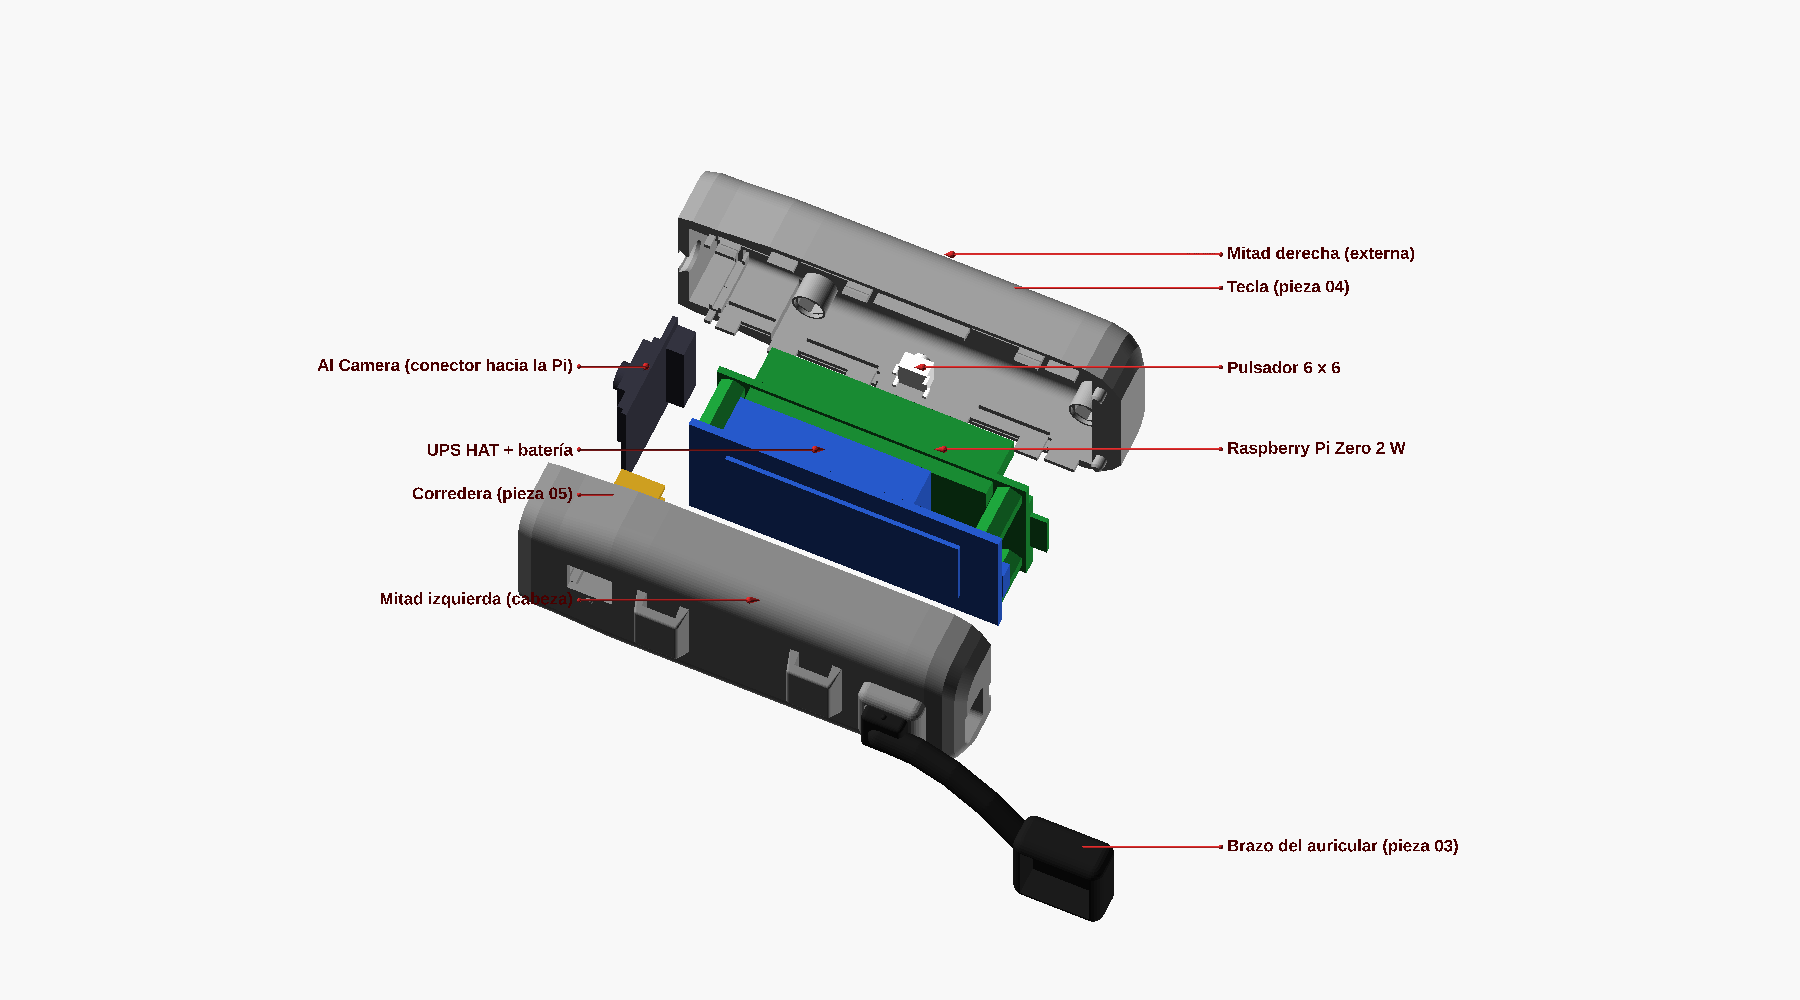
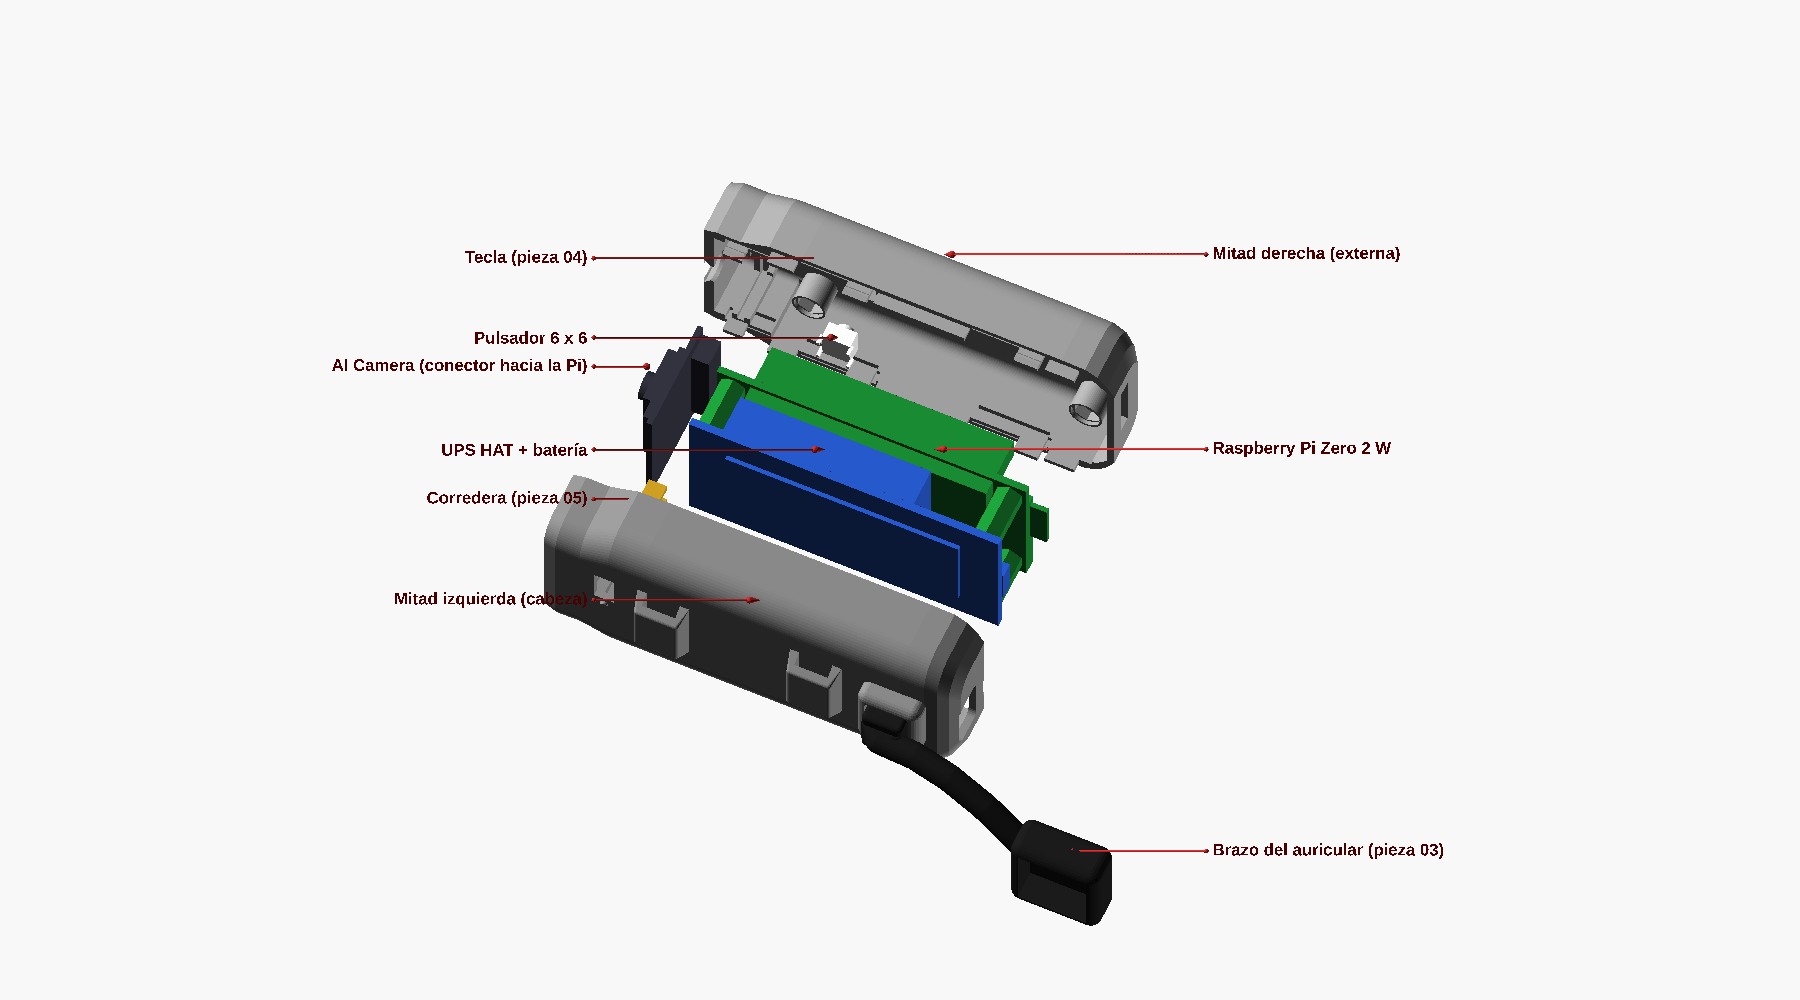
fix(hardware): case v0.11 from the v0.10 print — switch-sized window, printable camera slot, button off the heatsink
What the v0.10 print showed: the power-switch window was too long (now 4.2 x 7.4,
over the lever); the camera ribs were too fine to print (now 1.2 ribs with 0.3
clearance, no crush ribs); the mode button sat over the Pi's 14x14x5 heatsink (it
moves to x -14, and the heatsink is in the model and the checks); the microSD space
was mirrored (fixed, and it now opens at the rear end); the bone arm's tube started
inside its socket boss and its detent bumps jammed (moved out, bumps removed, more
clearance). The camera moves closer to the Pi: the nose is 5.3 mm shorter and 2 mm
lower, and the rear end is hollowed to a 1.6 shell. The rear pins go with it.

diff --git a/hardware/case-via-clara/README.md b/hardware/case-via-clara/README.md
@@ -1,19 +1,31 @@
-# Carcasa VIA Clara v0.10 — dos mitades con cierre a presión
+# Carcasa VIA Clara v0.11 — dos mitades con cierre a presión
 
-Modelo paramétrico en **OpenSCAD** (`via_clara_v0_10.scad`) para la Raspberry Pi Zero 2 W con el header
+Modelo paramétrico en **OpenSCAD** (`via_clara_v0_11.scad`) para la Raspberry Pi Zero 2 W con el header
 soldado, la Waveshare UPS HAT (C) unida a su batería 803040, la Raspberry Pi AI Camera y el auricular
-de conducción ósea, montado sobre la patilla de los lentes. Es la v0.9 corregida con lo que mostró su
-primera impresión (2026-10-17). La v0.8 (`via_clara_v0_8.scad`) se conserva como referencia.
+de conducción ósea, montado sobre la patilla de los lentes. Es la tercera versión impresa: corrige lo que
+mostraron las impresiones de la v0.9 (2026-10-17) y de la v0.10 (2026-10-21). La v0.8 (`via_clara_v0_8.scad`) se conserva como referencia.
 Para regenerar todo, correr `./export.sh`: arma los STL, las imágenes y las verificaciones, y sale con
 error si algo falla.
 
 ![Explotada, con las placas y la cámara](img/exploded_with_hardware.png)
 
-**Medidas exteriores: 92,9 × 28,7 × 36,6 mm** (largo × ancho × alto) del cuerpo. La v0.9 medía
-91,9 × 31,4 × 37,6. Con los puentes del elástico y el zócalo del brazo, que sobresalen 3,8 de la cara
-cabeza, el ancho total es 32,5. Las medidas no cuentan el brazo del auricular.
+**Medidas exteriores: 86,2 × 28,7 × 36,6 mm** (largo × ancho × alto) del cuerpo; la nariz baja a 31,6
+de alto. La v0.10 medía 92,9 × 28,7 × 36,6, y la v0.9, 91,9 × 31,4 × 37,6. Con los puentes del elástico
+y el zócalo del brazo, que sobresalen 3,8 de la cara cabeza, el ancho total es 32,5. Las medidas no
+cuentan el brazo del auricular.
 
-## Qué cambió después de imprimir la v0.9
+## Qué cambió después de imprimir la v0.10
+
+| Lo que pasó en la impresión | v0.11 |
+|---|---|
+| La ventana de la llave de encendido era demasiado larga | La ventana tiene **el tamaño de la llave**: 4,2 × 7,4 mm, justo frente a la palanca (la parte que asoma de la palanca mide 3,9 y recorre 3,3). La perilla de la corredera (pieza 05) mide 3,8 × 3. La corredera sigue haciendo falta: la palanca queda ~7 mm hacia adentro de la cara |
+| Las guías de la cámara eran tan finas que la impresora no las podía reproducir | Nervios de **1,2 mm** (tres líneas de extrusión), 1,0 sobre el borde del PCB y 0,3 de luz. Sin nervios de aplastamiento |
+| El botón chocaba con el disipador de la Raspberry | El botón pasó a **x −14**, adelante, lejos del chip del medio. El disipador (14 × 14 × 5) está en el modelo y en las verificaciones |
+| La ranura de la microSD estaba en espejo | Se pasó al lado correcto, y ahora **se abre por el extremo trasero**: la tarjeta entra y sale con la carcasa cerrada |
+| El brazo del auricular no entraba: su tubo chocaba con el zócalo | El tubo arranca 0,4 mm afuera del zócalo, la ficha tiene 0,35 de luz por lado y no tiene los topes que trababan |
+| Seguía siendo grande y con mucho relleno en los extremos | La cámara se acercó a la Pi y la nariz quedó **5,3 mm más corta** y 2 mm más baja (y el extremo trasero, 1,4 más corto). El extremo trasero, que era casi macizo, ahora es una cáscara de 1,6. Sin los pernos traseros: alinean los labios |
+
+## Lo que cambió en la v0.10
 
 | Lo que pasó en la impresión | v0.10 |
 |---|---|
@@ -27,7 +39,7 @@ cabeza, el ancho total es 32,5. Las medidas no cuentan el brazo del auricular.
 Además, como el flex ya no apoya en el piso de la nariz:
 
 - la traba delantera **vuelve a tener par abajo**: son 6 trabas;
-- la corredera ocupa todo el lugar detrás de la cámara y su perilla pasa de 4,4 a **9,1 mm de ancho**, mucho más fácil de encontrar al tacto.
+- la corredera ocupa todo el lugar detrás de la cámara y su perilla pasó de 4,4 a 9,1 mm de ancho (en la v0.11 se achicó otra vez, al tamaño de la llave).
 
 ## Antes de imprimir: medir con calibre
 
@@ -36,9 +48,10 @@ va primero:
 
 | Parámetro | Qué medir | Valor | Si está mal |
 |---|---|---|---|
+| `HEATSINK`, `HEATSINK_C` | el disipador de la Pi: tamaño y alto, y dónde está su centro | 14 × 14 × 5, a 25 del extremo de la microSD | el botón vuelve a chocar con él |
 | `HEX_H`, `HEX_AF` | los separadores hexagonales que asoman **sobre la Pi**: cuánto sobresalen de la cara de la Pi, y entre caras | 6,0 / 5,0 | no entran en la almohadilla o quedan flojos; si sobresalen más que el header (8,5), la carcasa se ensancha sola |
 | `SCREW_HEAD_H`, `SCREW_HEAD_D` | las cabezas de los tornillos bajo la HAT | 1,8 / 4,5 | tocan la pared del lado de la cabeza |
-| `SD_CARD_OUT` | cuánto sobresale la microSD del borde de la Pi (o cuánto se cortó con la Dremel) | 3,5 | la tarjeta vuelve a chocar atrás |
+| `SD_CARD_OUT`, `SD_ZC` | cuánto sobresale la microSD del borde de la Pi, y dónde está su centro | 3,5 / 1,9 | la ranura trasera no queda frente a la tarjeta |
 | `AI_CAM_HOLDER` | el soporte cuadrado del lente: lado, y cuánto sobresale de la cara del PCB | 12,0 / 4,6 | la cámara no llega a su ranura |
 | `BOARD_GAP` | de la cara superior de la HAT a la cara inferior de la Pi | 11,3 | en la v0.9 entró bien |
 | `LEVER_Y`, `LEVER_TRAVEL`, `SW_BODY_H` | altura de la palanca sobre la HAT, su recorrido y el alto de la carcasa de la llave | 2–5 / 3,3 / 7 | la horquilla no agarra la palanca o no la lleva hasta el final |
@@ -61,7 +74,7 @@ subcarpeta por versión. El repo guarda lo que los genera (`.scad` y `export.sh`
 ## Guía con flechas
 
 `img/guide/` tiene cinco vistas con flechas que dicen para qué es cada ranura, agujero y pieza. Las
-genera `export.sh` a partir de `via_clara_v0_10_guide.scad`:
+genera `export.sh` a partir de `via_clara_v0_11_guide.scad`:
 
 | Vista | Qué muestra |
 |---|---|
@@ -105,14 +118,14 @@ menores, la carcasa se achica sola.
 
 | Especificación | v0.10 |
 |---|---|
-| Sin tornillos, cierre por click | **6 trabas a presión**, 3 arriba y 3 abajo. Cada una es una **viga** de 6 a 10 mm que corre a lo largo de la junta, dentro de la pared de la mitad derecha. En la punta lleva un **gancho** que cruza la junta y cae en una ranura de la mitad izquierda: para abrir o cerrar, la viga flexiona ~0,35 mm, dentro del plano de la cama. Cada viga se imprime atada por un **puente en la ranura de su extremo, que hay que cortar después de imprimir**. Además hay un labio de alineación en el resto de la junta, 2 pernos atrás y una ranura para abrir con la uña |
-| Sin tapa de cámara | la cámara queda **dentro de las dos mitades**: el PCB entra en una **ranura** con nervios adelante y atrás, 0,15 de luz en los bordes y cuatro nervios de aplastamiento arriba y abajo. **Una sola abertura frontal**, centrada en el lente |
+| Sin tornillos, cierre por click | **6 trabas a presión**, 3 arriba y 3 abajo. Cada una es una **viga** de 6 a 10 mm que corre a lo largo de la junta, dentro de la pared de la mitad derecha. En la punta lleva un **gancho** que cruza la junta y cae en una ranura de la mitad izquierda: para abrir o cerrar, la viga flexiona ~0,35 mm, dentro del plano de la cama. Cada viga se imprime atada por un **puente en la ranura de su extremo, que hay que cortar después de imprimir**. Además hay un labio de alineación en el resto de la junta y una ranura atrás para abrir con la uña |
+| Sin tapa de cámara | la cámara queda **dentro de las dos mitades**: el PCB entra en una **ranura** con nervios de 1,2 adelante y atrás, que cubren 1,0 del borde, con 0,3 de luz. **Una sola abertura frontal**, centrada en el lente |
 | Flex de la cámara | sale del conector por el costado de la cámara que mira a la Pi, corre pegado a la pared externa y baja al CSI. Ese recorrido está reservado (verificación `flex`) |
 | Sin pines a través de la Raspberry | **4 almohadillas en la mitad derecha** reciben los separadores hexagonales que asoman sobre la Pi, y un **collar de plástico** se refunde sobre cada uno con el soldador. El collar queda a 3,4 mm de la Pi |
-| Interruptor accesible | **corredera impresa** (pieza 05): una perilla de **9,1 × 4 mm**, 1,5 en relieve, con tres estrías y un **punto en relieve que marca el lado ON**. Asoma por una ventana adelante en la cara cabeza, y una horquilla toma la palanca de la llave de punta a punta: ON abajo, OFF arriba |
+| Interruptor accesible | **corredera impresa** (pieza 05): una perilla de **3,8 × 3 mm** en una ventana del tamaño de la llave, 1,5 en relieve, con tres estrías y un **punto en relieve que marca el lado ON**. Asoma por una ventana adelante en la cara cabeza, y una horquilla toma la palanca de la llave de punta a punta: ON abajo, OFF arriba |
 | Carga | canal en la pared trasera a la altura del micro USB de la HAT, para la ficha moldeada |
-| microSD | **queda adentro**: es sólo para el equipo, y para sacarla se abre la carcasa. Atrás tiene lugar de sobra |
-| Un solo botón | **botón de modos** en la cara externa, con un **anillo en bajorrelieve** para encontrarlo al tacto. La tecla y el pulsador de 6 × 6 de 4 patas entran derecho desde adentro en su bolsillo (verificaciones `cap_insert` y `switch_insert`); una gota de pegamento caliente fija el pulsador |
+| microSD | **entra y sale por una ranura en el extremo trasero**, con la carcasa cerrada |
+| Un solo botón | **botón de modos** en la cara externa, adelante (x −14), lejos del disipador, con un **anillo en bajorrelieve** para encontrarlo al tacto. La tecla y el pulsador de 6 × 6 de 4 patas entran derecho desde adentro en su bolsillo (verificaciones `cap_insert` y `switch_insert`); una gota de pegamento caliente fija el pulsador |
 | Auricular óseo, 14 mm | 14 nominales + 0,2 de holgura por lado. El brazo es pieza aparte y sigue a la cara cabeza |
 | Canal para el elástico | **dos puentes** en la cara cabeza, para un elástico plano de 6 mm |
 
@@ -138,9 +151,9 @@ Ahora el conjunto va en la **mitad derecha** (la externa). Hay que poner primero
    cabeza, con la horquilla hacia adentro. Dejarla **arriba del todo (OFF)**, y la llave de la HAT
    también en **OFF**.
 6. **Auricular.** Pasar el cable por el puerto de la mitad izquierda y el canal del brazo, y enchufar
-   el brazo en su zócalo.
+   el brazo en su zócalo. Si queda flojo, una gota de pegamento.
 7. **Cerrar.** Bajar la mitad izquierda sobre la derecha. La palanca de la llave entra en la horquilla
-   de la corredera (verificación `lever_insert`) y los pernos traseros guían. Apretar hasta escuchar las
+   de la corredera (verificación `lever_insert`) y los labios guían. Apretar hasta escuchar las
    seis trabas. Para abrir: uña o moneda en la ranura trasera.
 
 ## Impresión
@@ -150,19 +163,19 @@ PETG si es posible (aguanta mejor las aperturas repetidas); PLA también sirve. 
 
 | STL | Orientación | Soportes |
 |---|---|---|
-| `01_left_half_v0_10.stl` | cara cabeza abajo; apoya en las caras planas del zócalo del brazo y de los dos puentes del elástico | sí, bajo la cara cabeza; bloquearlos dentro de la cavidad |
-| `02_right_half_v0_10.stl` | cara externa abajo, plana; las trabas y las almohadillas crecen hacia arriba | sólo bajo el ahusado trasero y la punta de la nariz. Después de imprimir, **cortar los 6 puentes** de las vigas de las trabas, contra la punta de cada viga |
-| `03_bone_arm_v0_10.stl` | acostado | de árbol |
-| `04_mode_button_v0_10.stl` | parado sobre la brida | no |
-| `05_power_slider_v0_10.stl` | acostado sobre su cara lateral plana | no |
-| `00_assembly_check_v0_10.stl` | — | **no se imprime**: el conjunto cerrado, para revisar en el laminador |
+| `01_left_half_v0_11.stl` | cara cabeza abajo; apoya en las caras planas del zócalo del brazo y de los dos puentes del elástico | sí, bajo la cara cabeza; bloquearlos dentro de la cavidad |
+| `02_right_half_v0_11.stl` | cara externa abajo, plana; las trabas y las almohadillas crecen hacia arriba | sólo bajo el ahusado trasero y la punta de la nariz. Después de imprimir, **cortar los 6 puentes** de las vigas de las trabas, contra la punta de cada viga |
+| `03_bone_arm_v0_11.stl` | acostado | de árbol |
+| `04_mode_button_v0_11.stl` | parado sobre la brida | no |
+| `05_power_slider_v0_11.stl` | acostado sobre su cara lateral plana | no |
+| `00_assembly_check_v0_11.stl` | — | **no se imprime**: el conjunto cerrado, para revisar en el laminador |
 
 ## Archivos y verificaciones
 
 ```
-via_clara_v0_10.scad         el modelo. PART = assembly | left | right | bone | button | slider |
+via_clara_v0_11.scad         el modelo. PART = assembly | left | right | bone | button | slider |
                              print_* | hardware | check_*;  SHOW_HW y EXPLODE para la vista armada
-via_clara_v0_10_guide.scad   la guía con flechas (img/guide/); no se imprime
+via_clara_v0_11_guide.scad   la guía con flechas (img/guide/); no se imprime
 via_clara_v0_8.scad          la versión de partida, sin tocar, como referencia
 export.sh                    regenera stl/ e img/ y corre las verificaciones
 ```

diff --git a/docs/SESSION-LOG.md b/docs/SESSION-LOG.md
@@ -3949,3 +3949,26 @@ sobresale la microSD y el soporte del lente, y con eso imprimir primero la nariz
 carpeta `modelo_3d` del Drive de ViroVision: quedó pendiente porque el Chrome conectado no tenía esa
 cuenta.
 
+## 2026-10-21 — Carcasa v0.11: lo que mostró la impresión de la v0.10
+
+La v0.10 impresa salió mal ("espantoso"). Lo que falló y cómo quedó en `via_clara_v0_11.scad`:
+
+- **Ventana de la llave demasiado larga.** El usuario quería que calzara justo con el switch: ahora mide
+  4,2 × 7,4, frente a la palanca, y la perilla de la corredera 3,8 × 3.
+- **Las guías de la cámara no se podían imprimir** (nervios de 0,65 y de aplastamiento de 0,6, aun con
+  la calidad al máximo). Ahora son nervios de 1,2 con 0,3 de luz, sin nervios de aplastamiento.
+- **El botón chocaba con el disipador** de la Pi (14 × 14 × 5, el usuario lo quiere mantener). El botón
+  pasó a x −14, y el disipador entró al modelo y a las verificaciones.
+- **La microSD estaba en espejo** (el slot no está centrado en el borde de la Pi). Se corrigió de lado, y
+  el espacio ahora se abre por el extremo trasero para sacar y poner la tarjeta.
+- **El brazo del auricular no entraba**: su tubo arrancaba 0,6 adentro del zócalo y los topes de la
+  ficha trababan. Se corrió el tubo, se sacaron los topes y la ficha tiene 0,35 de luz por lado.
+- **Seguía grande y con relleno en los extremos.** La nariz quedó 5,3 mm más corta (la cámara se acercó
+  a la Pi, con 3,2 mm para que el flex baje al CSI) y 2 mm más baja; el extremo trasero es una cáscara de
+  1,6. El cuerpo quedó en 86,2 × 28,7 × 36,6.
+- Error mío del proceso: mandé a imprimir la v0.10 con medidas supuestas sin confirmar. Las verificaciones
+  pasaban contra maquetas, pero las maquetas no tenían el disipador ni el pulsador real.
+
+**Pendiente**: confirmar las medidas de la tabla del README (separadores sobre la Pi, disipador,
+microSD, soporte del lente, pulsador) antes de imprimir; imprimir primero la nariz como prueba.
+

diff --git a/docs/PROJECT-STATUS.md b/docs/PROJECT-STATUS.md
@@ -313,9 +313,9 @@ Pick a track (see the skill for pillar detail):
   plazo a `capture_request`**, que es lo que la trabó para todo, foto de supermercado incluida.
   La batería se lee del INA219 del HAT desde el 2026-10-06 (`battery.py`) y llega a la app por `status`.
   Siguen: DAC I2S, medir el consumo real y la app mostrando la lectura de ómnibus. La **carcasa**
-  vigente es la VIA Clara v0.10 (`hardware/case-via-clara/`, 2026-10-17): dos mitades a presión sobre
-  el conjunto real HAT + batería + Pi. La v0.9 se imprimió y casi todo encajó; la v0.10 corrige lo que
-  no. Los STL se regeneran con `export.sh` y van al Drive de ViroVision (`modelo_3d`, todavía por crear
+  vigente es la VIA Clara v0.11 (`hardware/case-via-clara/`, 2026-10-21): dos mitades a presión sobre
+  el conjunto real HAT + batería + Pi. Se imprimieron la v0.9 (casi todo encajó) y la v0.10 (salió mal:
+  guías de cámara que no se podían imprimir, botón contra el disipador, microSD en espejo); la v0.11 corrige las dos. Los STL se regeneran con `export.sh` y van al Drive de ViroVision (`modelo_3d`, todavía por crear
   en esa cuenta). Falta medir los separadores sobre la Pi, la microSD y el soporte del lente, e imprimir
   la v0.10.
 
